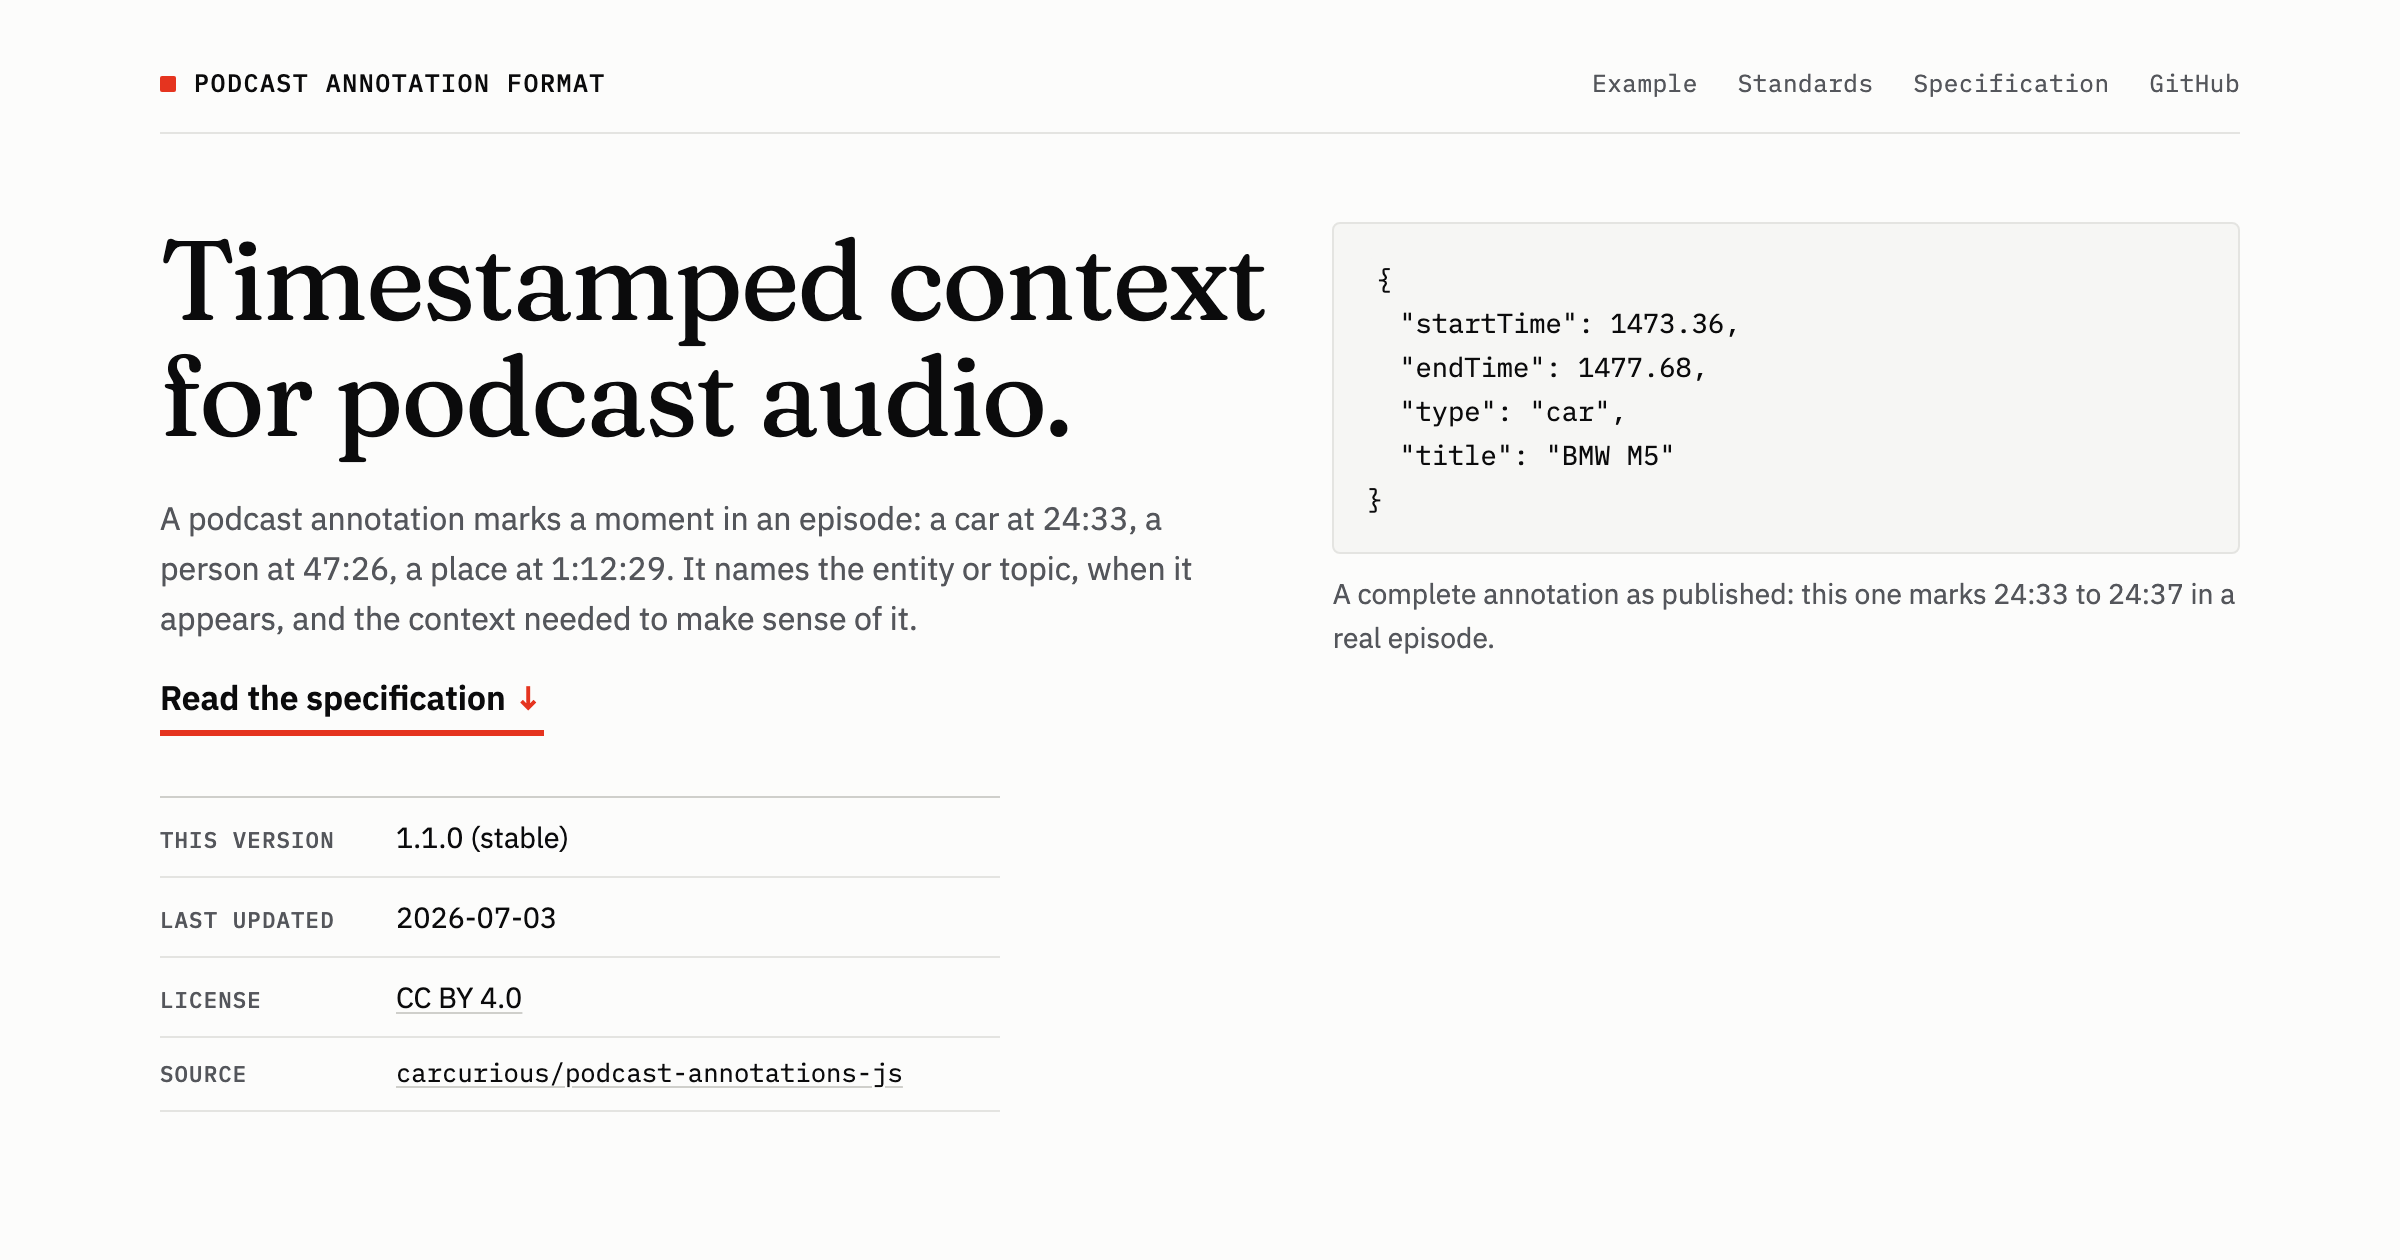
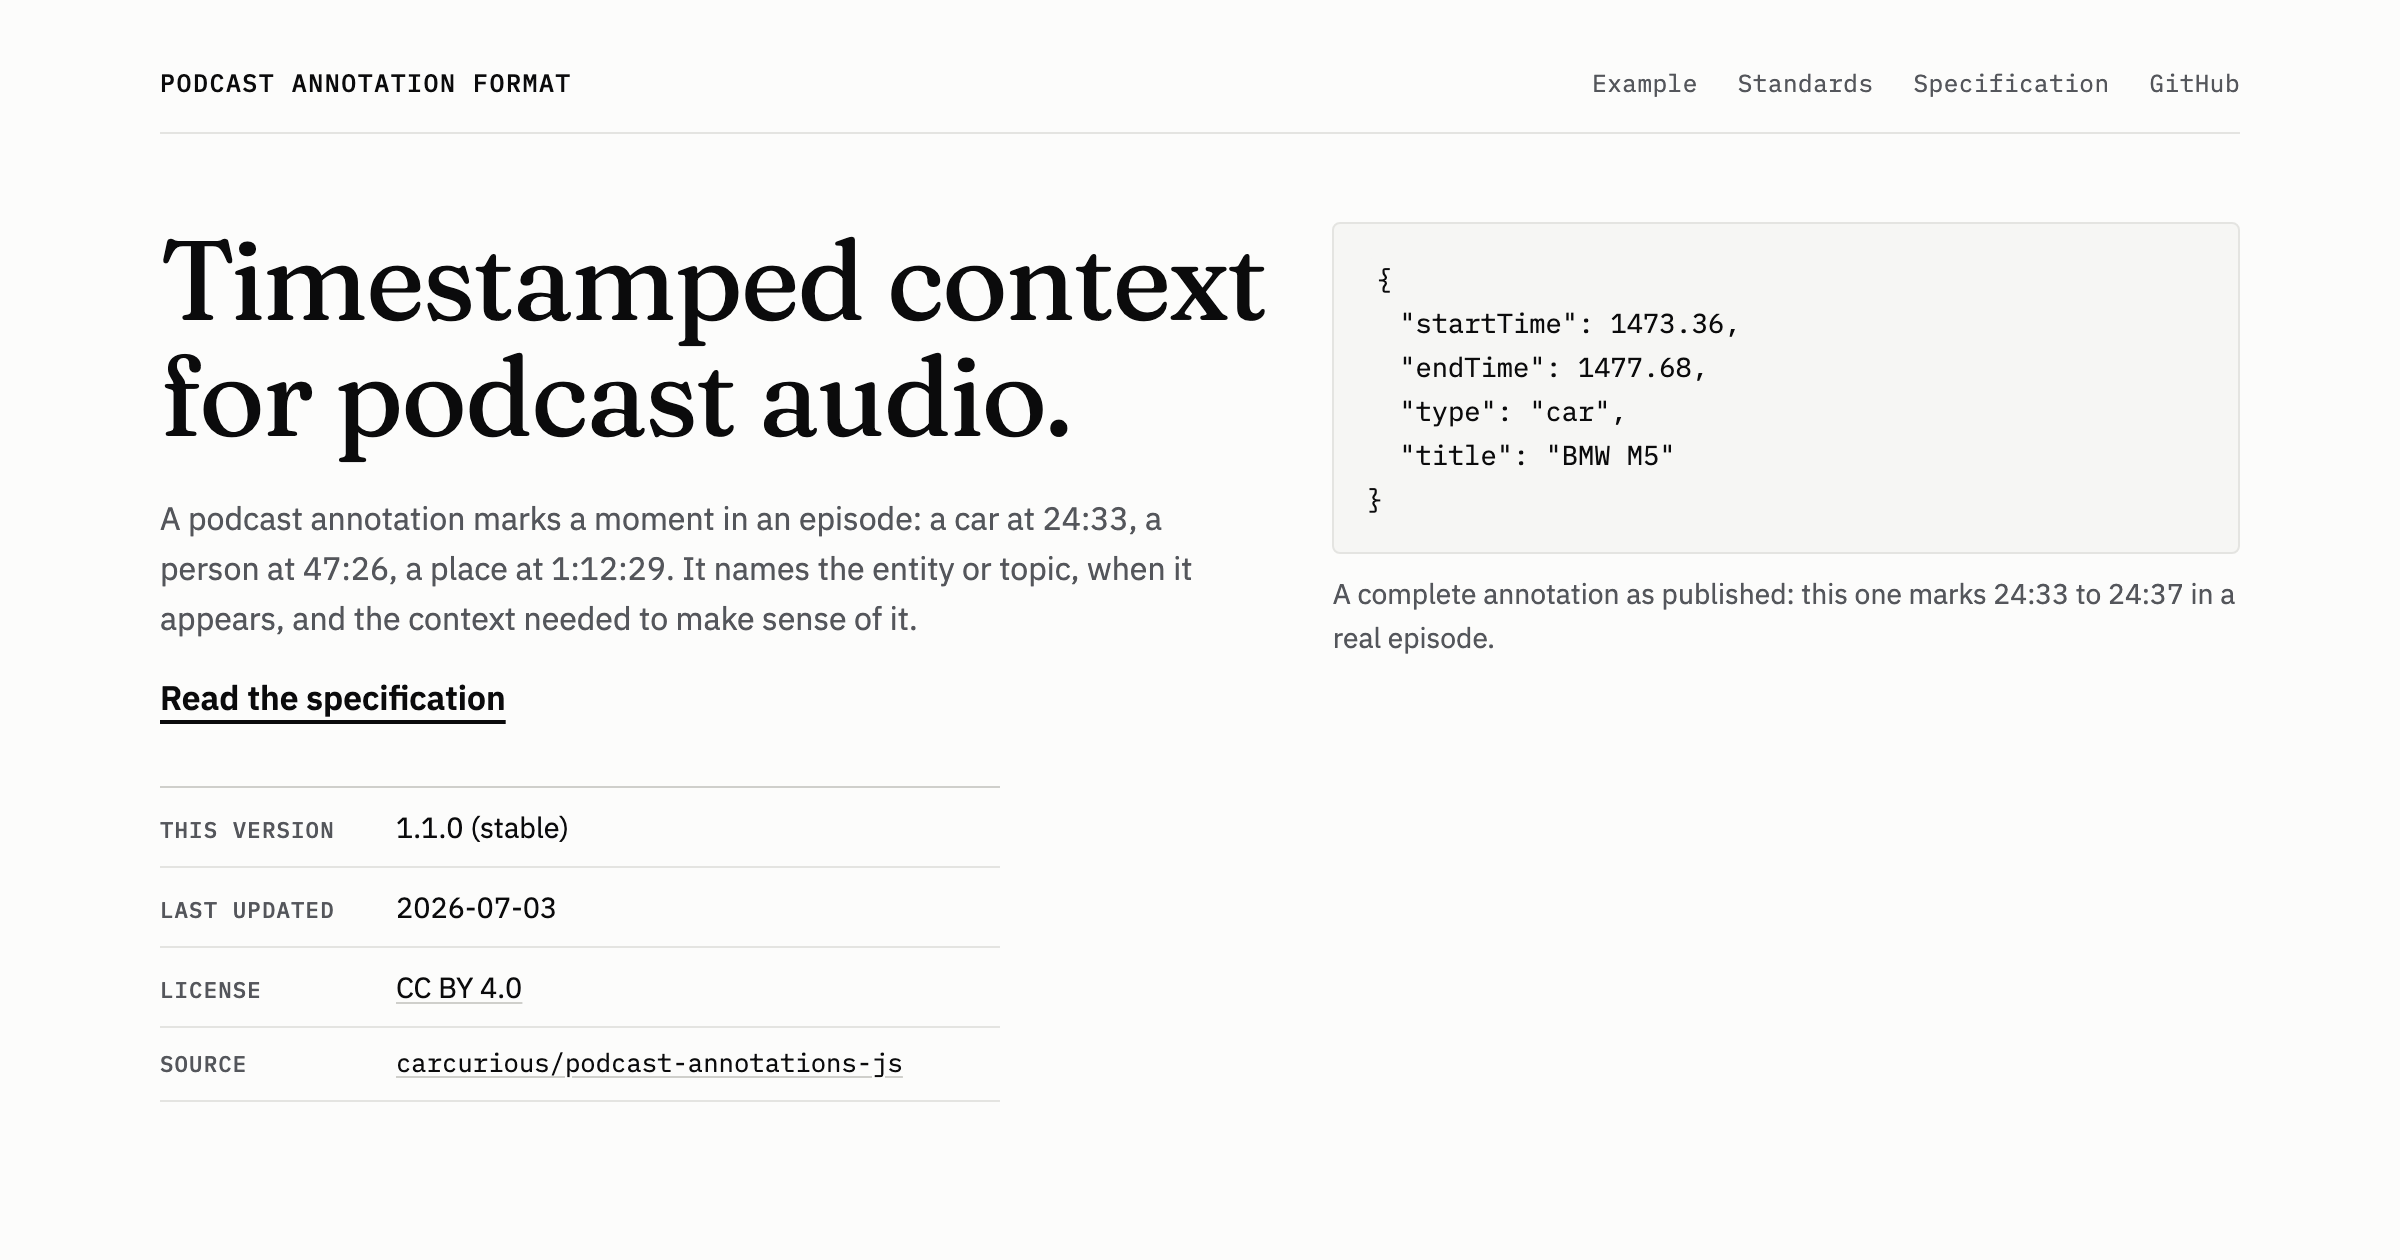
Refine site styling; rebuild

diff --git a/docs/index.html b/docs/index.html
@@ -97,21 +97,11 @@
       border-bottom: 1px solid var(--border);
     }
     .topbar strong {
-      display: inline-flex;
-      align-items: center;
-      gap: 9px;
       font-family: var(--mono);
       font-weight: 500;
       font-size: 0.78rem;
       letter-spacing: 0.06em;
       text-transform: uppercase;
-    }
-    .topbar strong::before {
-      content: "";
-      width: 8px;
-      height: 8px;
-      border-radius: 1px;
-      background: var(--accent);
     }
     .topbar nav {
       display: flex;
@@ -159,15 +149,12 @@
       font-weight: 600;
       font-size: 1.05rem;
       color: var(--text);
-      text-decoration: none;
-      border-bottom: 3px solid var(--accent);
-      padding-bottom: 2px;
+      text-decoration: underline;
+      text-decoration-thickness: 2px;
+      text-decoration-color: var(--text);
+      text-underline-offset: 5px;
     }
-    .cta-spec::after {
-      content: " \2193";
-      color: var(--accent);
-    }
-    .cta-spec:hover { color: var(--accent); text-decoration: none; }
+    .cta-spec:hover { color: var(--accent); text-decoration-color: var(--accent); }
     .section {
       margin-bottom: 40px;
     }
@@ -371,22 +358,13 @@
       font-size: 0.82rem;
     }
     .demo-type {
-      display: inline-flex;
-      align-items: center;
-      gap: 7px;
+      display: inline-block;
       font-family: var(--mono);
       font-size: 0.74rem;
       text-transform: uppercase;
       letter-spacing: 0.05em;
       color: var(--muted);
       margin-bottom: 12px;
-    }
-    .demo-type::before {
-      content: "";
-      width: 6px;
-      height: 6px;
-      border-radius: 1px;
-      background: var(--accent);
     }
     .demo-copy h3 {
       font-family: var(--serif);
@@ -410,10 +388,14 @@
     }
     .demo-payload summary {
       cursor: pointer;
-      color: var(--accent);
+      color: var(--text);
       font-weight: 500;
+      text-decoration: underline;
+      text-decoration-color: var(--border-strong);
+      text-underline-offset: 2px;
       margin-bottom: 8px;
     }
+    .demo-payload summary:hover { color: var(--accent); text-decoration-color: var(--accent); }
     .demo-payload pre {
       font-size: 0.82rem;
       max-height: 260px;
@@ -460,19 +442,9 @@
       background: var(--surface-muted);
     }
     .spec-wrap {
-      position: relative;
       margin-top: 48px;
       padding-top: 36px;
       border-top: 1px solid var(--border-strong);
-    }
-    .spec-wrap::before {
-      content: "";
-      position: absolute;
-      top: -2px;
-      left: 0;
-      width: 40px;
-      height: 4px;
-      background: var(--accent);
     }
     #spec {
       max-width: var(--max-spec);

diff --git a/scripts/build-site.js b/scripts/build-site.js
@@ -323,21 +323,11 @@ const html = `<!DOCTYPE html>
       border-bottom: 1px solid var(--border);
     }
     .topbar strong {
-      display: inline-flex;
-      align-items: center;
-      gap: 9px;
       font-family: var(--mono);
       font-weight: 500;
       font-size: 0.78rem;
       letter-spacing: 0.06em;
       text-transform: uppercase;
-    }
-    .topbar strong::before {
-      content: "";
-      width: 8px;
-      height: 8px;
-      border-radius: 1px;
-      background: var(--accent);
     }
     .topbar nav {
       display: flex;
@@ -385,15 +375,12 @@ const html = `<!DOCTYPE html>
       font-weight: 600;
       font-size: 1.05rem;
       color: var(--text);
-      text-decoration: none;
-      border-bottom: 3px solid var(--accent);
-      padding-bottom: 2px;
+      text-decoration: underline;
+      text-decoration-thickness: 2px;
+      text-decoration-color: var(--text);
+      text-underline-offset: 5px;
     }
-    .cta-spec::after {
-      content: " \\2193";
-      color: var(--accent);
-    }
-    .cta-spec:hover { color: var(--accent); text-decoration: none; }
+    .cta-spec:hover { color: var(--accent); text-decoration-color: var(--accent); }
     .section {
       margin-bottom: 40px;
     }
@@ -597,22 +584,13 @@ const html = `<!DOCTYPE html>
       font-size: 0.82rem;
     }
     .demo-type {
-      display: inline-flex;
-      align-items: center;
-      gap: 7px;
+      display: inline-block;
       font-family: var(--mono);
       font-size: 0.74rem;
       text-transform: uppercase;
       letter-spacing: 0.05em;
       color: var(--muted);
       margin-bottom: 12px;
-    }
-    .demo-type::before {
-      content: "";
-      width: 6px;
-      height: 6px;
-      border-radius: 1px;
-      background: var(--accent);
     }
     .demo-copy h3 {
       font-family: var(--serif);
@@ -636,10 +614,14 @@ const html = `<!DOCTYPE html>
     }
     .demo-payload summary {
       cursor: pointer;
-      color: var(--accent);
+      color: var(--text);
       font-weight: 500;
+      text-decoration: underline;
+      text-decoration-color: var(--border-strong);
+      text-underline-offset: 2px;
       margin-bottom: 8px;
     }
+    .demo-payload summary:hover { color: var(--accent); text-decoration-color: var(--accent); }
     .demo-payload pre {
       font-size: 0.82rem;
       max-height: 260px;
@@ -686,19 +668,9 @@ const html = `<!DOCTYPE html>
       background: var(--surface-muted);
     }
     .spec-wrap {
-      position: relative;
       margin-top: 48px;
       padding-top: 36px;
       border-top: 1px solid var(--border-strong);
-    }
-    .spec-wrap::before {
-      content: "";
-      position: absolute;
-      top: -2px;
-      left: 0;
-      width: 40px;
-      height: 4px;
-      background: var(--accent);
     }
     #spec {
       max-width: var(--max-spec);